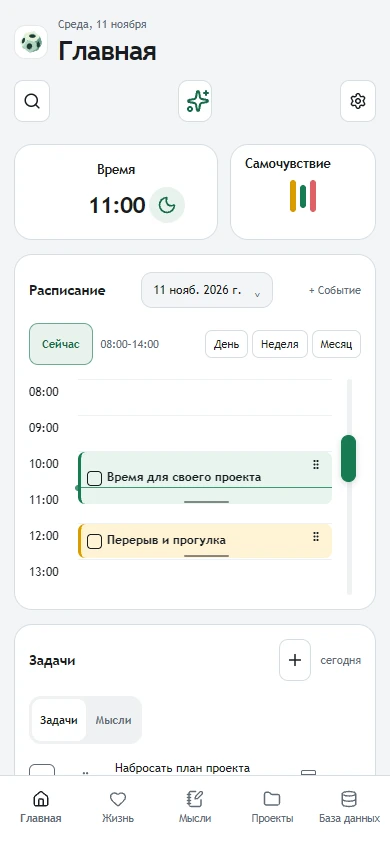
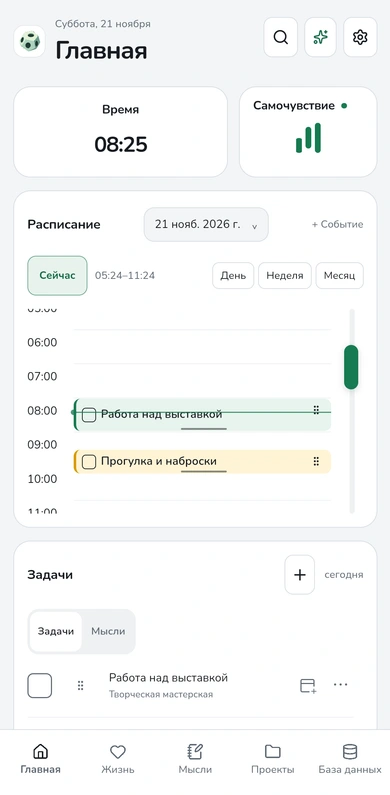
site: use native Orvim 0.4.49 screenshots in the gallery

diff --git a/site/app.js b/site/app.js
@@ -138,6 +138,7 @@ const translations = {
     footer_privacy: "Site Privacy",
     dialog_aria: "Enlarged interface screenshot",
     dialog_close_aria: "Close screenshot",
+    dialog_zoom: "Zoom 2×",
     dialog_close: 'Close <span aria-hidden="true">×</span>',
 
     // help.html
@@ -406,16 +407,24 @@ if (tour) {
     const [name, heading, body, alt] = slide[currentLang];
     const mobile = device === "mobile";
     const suffix = currentLang === "en" ? "-en" : "";
-    const src = `assets/tour/${slide.id}-${device}${suffix}.webp`;
+    const asset = `assets/tour/${slide.id}-${device}${suffix}`;
+    const src = `${asset}.webp`;
+    const full = `${asset}-full.webp`;
     title.textContent = heading;
     description.textContent = body;
     status.textContent = `${name} · ${index + 1} / ${TOUR_SLIDES.length}`;
     image.alt = alt;
     image.width = mobile ? 390 : 1280;
-    image.height = mobile ? 844 : 840;
+    image.height = mobile ? 795 : 840;
     stage.dataset.device = device;
-    if (image.getAttribute("src") !== src) image.src = src;
-    enlarge.href = src;
+    if (image.getAttribute("src") !== src || !image.srcset) {
+      image.sizes = mobile
+        ? "auto, min(390px, calc(100vw - 52px))"
+        : "auto, (max-width: 740px) calc(100vw - 74px), min(1146px, calc(100vw - 150px))";
+      image.srcset = `${src} ${image.width}w, ${full} ${mobile ? 1080 : 2560}w`;
+      image.src = src;
+    }
+    enlarge.href = full;
     devices.querySelector(`input[value="${device}"]`).checked = true;
   };
 
@@ -492,6 +501,13 @@ applyLanguage(detectInitialLanguage());
 const dialog = document.getElementById("image-dialog");
 if (dialog && typeof dialog.showModal === "function") {
   let trigger;
+  const zoom = document.getElementById("dialog-zoom");
+  const frame = dialog.querySelector(".dialog-image-frame");
+  zoom.addEventListener("click", () => {
+    const on = dialog.toggleAttribute("data-zoomed");
+    zoom.setAttribute("aria-pressed", String(on));
+    if (!on) frame.scrollTo(0, 0);
+  });
   for (const link of document.querySelectorAll(".enlarge")) {
     link.addEventListener("click", (event) => {
       event.preventDefault();
@@ -518,7 +534,12 @@ if (dialog && typeof dialog.showModal === "function") {
     )
       dialog.close();
   });
-  dialog.addEventListener("close", () => trigger?.focus());
+  dialog.addEventListener("close", () => {
+    dialog.removeAttribute("data-zoomed");
+    zoom.setAttribute("aria-pressed", "false");
+    frame.scrollTo(0, 0);
+    trigger?.focus();
+  });
 }
 
 // Only explicit, verified public release links are enabled. No requests to a third-party API.

diff --git a/site/index.html b/site/index.html
@@ -27,8 +27,8 @@
     />
     <meta name="twitter:card" content="summary_large_image" />
     <link rel="icon" href="assets/orvim.png" type="image/png" />
-    <link rel="stylesheet" href="styles.css?v=tour" />
-    <script src="app.js?v=tour" defer></script>
+    <link rel="stylesheet" href="styles.css?v=native-tour" />
+    <script src="app.js?v=native-tour" defer></script>
   </head>
   <body>
     <a class="skip-link" href="#main" data-i18n="skip_link">К содержимому</a>
@@ -149,7 +149,7 @@
               <a
                 class="text-link enlarge"
                 id="tour-enlarge"
-                href="assets/tour/home-desktop.webp"
+                href="assets/tour/home-desktop-full.webp"
                 data-i18n-html="inspect_interface"
                 >Рассмотреть интерфейс <span aria-hidden="true">↗</span></a
               >
@@ -180,6 +180,11 @@
             <img
               id="tour-image"
               src="assets/tour/home-desktop.webp"
+              srcset="
+                assets/tour/home-desktop.webp      1280w,
+                assets/tour/home-desktop-full.webp 2560w
+              "
+              sizes="auto, (max-width: 740px) calc(100vw - 74px), min(1146px, calc(100vw - 150px))"
               width="1280"
               height="840"
               alt="Расписание и задачи на главной Orvim"
@@ -359,8 +364,20 @@
         data-i18n-aria="dialog_close_aria"
         data-i18n-html="dialog_close"
       >
-        Закрыть <span aria-hidden="true">×</span></button
-      ><img id="dialog-image" alt="" />
+        Закрыть <span aria-hidden="true">×</span>
+      </button>
+      <button
+        id="dialog-zoom"
+        type="button"
+        aria-pressed="false"
+        aria-controls="dialog-image"
+        data-i18n="dialog_zoom"
+      >
+        Увеличить ×2
+      </button>
+      <div class="dialog-image-frame">
+        <img id="dialog-image" alt="" />
+      </div>
     </dialog>
   </body>
 </html>

diff --git a/site/styles.css b/site/styles.css
@@ -811,12 +811,26 @@ dialog::backdrop {
   background: #17130fe8;
 }
 
-dialog > img {
+.dialog-image-frame {
+  overflow: auto;
+  max-height: calc(94vh - 68px);
+  touch-action: pinch-zoom pan-x pan-y;
+}
+
+.dialog-image-frame > img {
+  max-width: 100%;
   margin-inline: auto;
   border-radius: var(--radius-image);
 }
 
-.dialog-close {
+#image-dialog[data-zoomed] .dialog-image-frame > img {
+  width: 200%;
+  max-width: none;
+  margin-inline: 0;
+}
+
+.dialog-close,
+#dialog-zoom {
   position: absolute;
   right: 14px;
   top: 9px;
@@ -824,6 +838,16 @@ dialog > img {
   background: #fffaf0;
   border: 1px solid var(--line);
   border-radius: 999px;
+}
+
+#dialog-zoom {
+  right: auto;
+  left: 14px;
+}
+
+#dialog-zoom[aria-pressed="true"] {
+  border-color: var(--bronze);
+  color: var(--bronze);
 }
 
 .dialog-close span {
@@ -874,6 +898,16 @@ dialog > img {
 }
 
 @media (max-width: 740px) {
+  .tour-stage[data-device="mobile"] {
+    width: min(390px, calc(100% + 22px));
+    margin-inline: max(-11px, calc((100% - 390px) / 2));
+  }
+
+  #image-dialog {
+    width: calc(100% - 8px);
+    padding-inline: 3px;
+  }
+
   .wrap {
     width: calc(100% - 40px);
   }

diff --git a/README.md b/README.md
@@ -42,35 +42,35 @@
 Ваш день в одном окне. Расписание и задачи рядом.
 
 <picture>
-  <source media="(max-width: 740px)" srcset="site/assets/tour/home-mobile.webp" />
-  <img src="site/assets/tour/home-desktop.webp" alt="Расписание и задачи на главной Orvim" width="1280" />
+  <source media="(max-width: 740px)" srcset="site/assets/tour/home-mobile-full.webp" />
+  <img src="site/assets/tour/home-desktop-full.webp" alt="Расписание и задачи на главной Orvim" width="1280" />
 </picture>
 
 <details>
 <summary><strong>Мобильная версия</strong></summary>
 
-- [Главная](site/assets/tour/home-mobile.webp) — Расписание и задачи рядом. Выберите день и отмечайте выполненные дела.
-- [Жизнь](site/assets/tour/life-mobile.webp) — Отмечайте самочувствие, сон, питание и тренировки. Смотрите, как меняются ваши записи со временем.
-- [Мысли](site/assets/tour/thoughts-mobile.webp) — Запишите мысль отдельно от списка дел. Возвращайтесь к заметкам, когда захотите развить идею.
-- [Проекты](site/assets/tour/projects-mobile.webp) — Описание, материалы и задачи собраны в одном месте. На доске видно, что запланировано, в работе или готово.
-- [База данных](site/assets/tour/database-mobile.webp) — Собирайте книги, фильмы и другие записи в коллекции. Добавляйте статусы, оценки и заметки.
+- [Главная](site/assets/tour/home-mobile-full.webp) — Расписание и задачи рядом. Выберите день и отмечайте выполненные дела.
+- [Жизнь](site/assets/tour/life-mobile-full.webp) — Отмечайте самочувствие, сон, питание и тренировки. Смотрите, как меняются ваши записи со временем.
+- [Мысли](site/assets/tour/thoughts-mobile-full.webp) — Запишите мысль отдельно от списка дел. Возвращайтесь к заметкам, когда захотите развить идею.
+- [Проекты](site/assets/tour/projects-mobile-full.webp) — Описание, материалы и задачи собраны в одном месте. На доске видно, что запланировано, в работе или готово.
+- [База данных](site/assets/tour/database-mobile-full.webp) — Собирайте книги, фильмы и другие записи в коллекции. Добавляйте статусы, оценки и заметки.
 
 </details>
 
 <details>
 <summary><strong>ПК-версия</strong></summary>
 
-- [Главная](site/assets/tour/home-desktop.webp) — Расписание и задачи рядом. Выберите день и отмечайте выполненные дела.
-- [Жизнь](site/assets/tour/life-desktop.webp) — Отмечайте самочувствие, сон, питание и тренировки. Смотрите, как меняются ваши записи со временем.
-- [Мысли](site/assets/tour/thoughts-desktop.webp) — Запишите мысль отдельно от списка дел. Возвращайтесь к заметкам, когда захотите развить идею.
-- [Проекты](site/assets/tour/projects-desktop.webp) — Описание, материалы и задачи собраны в одном месте. На доске видно, что запланировано, в работе или готово.
-- [База данных](site/assets/tour/database-desktop.webp) — Собирайте книги, фильмы и другие записи в коллекции. Добавляйте статусы, оценки и заметки.
+- [Главная](site/assets/tour/home-desktop-full.webp) — Расписание и задачи рядом. Выберите день и отмечайте выполненные дела.
+- [Жизнь](site/assets/tour/life-desktop-full.webp) — Отмечайте самочувствие, сон, питание и тренировки. Смотрите, как меняются ваши записи со временем.
+- [Мысли](site/assets/tour/thoughts-desktop-full.webp) — Запишите мысль отдельно от списка дел. Возвращайтесь к заметкам, когда захотите развить идею.
+- [Проекты](site/assets/tour/projects-desktop-full.webp) — Описание, материалы и задачи собраны в одном месте. На доске видно, что запланировано, в работе или готово.
+- [База данных](site/assets/tour/database-desktop-full.webp) — Собирайте книги, фильмы и другие записи в коллекции. Добавляйте статусы, оценки и заметки.
 
 </details>
 
 [Листать экраны на сайте Orvim](https://adeptus-amohus.github.io/orvim/?lang=ru#tour)
 
-<sub>Orvim 0.4.48 в браузерном предпросмотре с демонстрационными записями.</sub>
+<sub>Снимки Orvim 0.4.49 на Windows и в Android-эмуляторе с демонстрационными записями.</sub>
 
 ## Возможности
 
@@ -255,35 +255,35 @@ third-party/                 сторонние лицензии и уведом
 Your day at a glance. See your schedule and tasks together.
 
 <picture>
-  <source media="(max-width: 740px)" srcset="site/assets/tour/home-mobile-en.webp" />
-  <img src="site/assets/tour/home-desktop-en.webp" alt="Schedule and tasks on Orvim Home" width="1280" />
+  <source media="(max-width: 740px)" srcset="site/assets/tour/home-mobile-en-full.webp" />
+  <img src="site/assets/tour/home-desktop-en-full.webp" alt="Schedule and tasks on Orvim Home" width="1280" />
 </picture>
 
 <details>
 <summary><strong>Mobile version</strong></summary>
 
-- [Home](site/assets/tour/home-mobile-en.webp) — See your schedule and tasks together. Pick a date and check off tasks as you go.
-- [Life](site/assets/tour/life-mobile-en.webp) — Log how you feel, your sleep, meals, and workouts. Look back at your records over time.
-- [Thoughts](site/assets/tour/thoughts-mobile-en.webp) — Capture a thought outside your task list. Come back to your notes when you want to develop an idea.
-- [Projects](site/assets/tour/projects-mobile-en.webp) — Keep the brief, reference materials, and tasks together. The board shows what’s planned, in progress, and done.
-- [Database](site/assets/tour/database-mobile-en.webp) — Organize books, films, and other records into collections. Add statuses, ratings, and notes.
+- [Home](site/assets/tour/home-mobile-en-full.webp) — See your schedule and tasks together. Pick a date and check off tasks as you go.
+- [Life](site/assets/tour/life-mobile-en-full.webp) — Log how you feel, your sleep, meals, and workouts. Look back at your records over time.
+- [Thoughts](site/assets/tour/thoughts-mobile-en-full.webp) — Capture a thought outside your task list. Come back to your notes when you want to develop an idea.
+- [Projects](site/assets/tour/projects-mobile-en-full.webp) — Keep the brief, reference materials, and tasks together. The board shows what’s planned, in progress, and done.
+- [Database](site/assets/tour/database-mobile-en-full.webp) — Organize books, films, and other records into collections. Add statuses, ratings, and notes.
 
 </details>
 
 <details>
 <summary><strong>Desktop version</strong></summary>
 
-- [Home](site/assets/tour/home-desktop-en.webp) — See your schedule and tasks together. Pick a date and check off tasks as you go.
-- [Life](site/assets/tour/life-desktop-en.webp) — Log how you feel, your sleep, meals, and workouts. Look back at your records over time.
-- [Thoughts](site/assets/tour/thoughts-desktop-en.webp) — Capture a thought outside your task list. Come back to your notes when you want to develop an idea.
-- [Projects](site/assets/tour/projects-desktop-en.webp) — Keep the brief, reference materials, and tasks together. The board shows what’s planned, in progress, and done.
-- [Database](site/assets/tour/database-desktop-en.webp) — Organize books, films, and other records into collections. Add statuses, ratings, and notes.
+- [Home](site/assets/tour/home-desktop-en-full.webp) — See your schedule and tasks together. Pick a date and check off tasks as you go.
+- [Life](site/assets/tour/life-desktop-en-full.webp) — Log how you feel, your sleep, meals, and workouts. Look back at your records over time.
+- [Thoughts](site/assets/tour/thoughts-desktop-en-full.webp) — Capture a thought outside your task list. Come back to your notes when you want to develop an idea.
+- [Projects](site/assets/tour/projects-desktop-en-full.webp) — Keep the brief, reference materials, and tasks together. The board shows what’s planned, in progress, and done.
+- [Database](site/assets/tour/database-desktop-en-full.webp) — Organize books, films, and other records into collections. Add statuses, ratings, and notes.
 
 </details>
 
 [Open the interactive gallery on the Orvim website](https://adeptus-amohus.github.io/orvim/?lang=en#tour)
 
-<sub>Orvim 0.4.48 browser preview with sample records.</sub>
+<sub>Orvim 0.4.49 on Windows and an Android emulator with sample records.</sub>
 
 ## Features
 

diff --git a/README.ru.md b/README.ru.md
@@ -39,35 +39,35 @@
 Ваш день в одном окне. Расписание и задачи рядом.
 
 <picture>
-  <source media="(max-width: 740px)" srcset="site/assets/tour/home-mobile.webp" />
-  <img src="site/assets/tour/home-desktop.webp" alt="Расписание и задачи на главной Orvim" width="1280" />
+  <source media="(max-width: 740px)" srcset="site/assets/tour/home-mobile-full.webp" />
+  <img src="site/assets/tour/home-desktop-full.webp" alt="Расписание и задачи на главной Orvim" width="1280" />
 </picture>
 
 <details>
 <summary><strong>Мобильная версия</strong></summary>
 
-- [Главная](site/assets/tour/home-mobile.webp) — Расписание и задачи рядом. Выберите день и отмечайте выполненные дела.
-- [Жизнь](site/assets/tour/life-mobile.webp) — Отмечайте самочувствие, сон, питание и тренировки. Смотрите, как меняются ваши записи со временем.
-- [Мысли](site/assets/tour/thoughts-mobile.webp) — Запишите мысль отдельно от списка дел. Возвращайтесь к заметкам, когда захотите развить идею.
-- [Проекты](site/assets/tour/projects-mobile.webp) — Описание, материалы и задачи собраны в одном месте. На доске видно, что запланировано, в работе или готово.
-- [База данных](site/assets/tour/database-mobile.webp) — Собирайте книги, фильмы и другие записи в коллекции. Добавляйте статусы, оценки и заметки.
+- [Главная](site/assets/tour/home-mobile-full.webp) — Расписание и задачи рядом. Выберите день и отмечайте выполненные дела.
+- [Жизнь](site/assets/tour/life-mobile-full.webp) — Отмечайте самочувствие, сон, питание и тренировки. Смотрите, как меняются ваши записи со временем.
+- [Мысли](site/assets/tour/thoughts-mobile-full.webp) — Запишите мысль отдельно от списка дел. Возвращайтесь к заметкам, когда захотите развить идею.
+- [Проекты](site/assets/tour/projects-mobile-full.webp) — Описание, материалы и задачи собраны в одном месте. На доске видно, что запланировано, в работе или готово.
+- [База данных](site/assets/tour/database-mobile-full.webp) — Собирайте книги, фильмы и другие записи в коллекции. Добавляйте статусы, оценки и заметки.
 
 </details>
 
 <details>
 <summary><strong>ПК-версия</strong></summary>
 
-- [Главная](site/assets/tour/home-desktop.webp) — Расписание и задачи рядом. Выберите день и отмечайте выполненные дела.
-- [Жизнь](site/assets/tour/life-desktop.webp) — Отмечайте самочувствие, сон, питание и тренировки. Смотрите, как меняются ваши записи со временем.
-- [Мысли](site/assets/tour/thoughts-desktop.webp) — Запишите мысль отдельно от списка дел. Возвращайтесь к заметкам, когда захотите развить идею.
-- [Проекты](site/assets/tour/projects-desktop.webp) — Описание, материалы и задачи собраны в одном месте. На доске видно, что запланировано, в работе или готово.
-- [База данных](site/assets/tour/database-desktop.webp) — Собирайте книги, фильмы и другие записи в коллекции. Добавляйте статусы, оценки и заметки.
+- [Главная](site/assets/tour/home-desktop-full.webp) — Расписание и задачи рядом. Выберите день и отмечайте выполненные дела.
+- [Жизнь](site/assets/tour/life-desktop-full.webp) — Отмечайте самочувствие, сон, питание и тренировки. Смотрите, как меняются ваши записи со временем.
+- [Мысли](site/assets/tour/thoughts-desktop-full.webp) — Запишите мысль отдельно от списка дел. Возвращайтесь к заметкам, когда захотите развить идею.
+- [Проекты](site/assets/tour/projects-desktop-full.webp) — Описание, материалы и задачи собраны в одном месте. На доске видно, что запланировано, в работе или готово.
+- [База данных](site/assets/tour/database-desktop-full.webp) — Собирайте книги, фильмы и другие записи в коллекции. Добавляйте статусы, оценки и заметки.
 
 </details>
 
 [Листать экраны на сайте Orvim](https://adeptus-amohus.github.io/orvim/?lang=ru#tour)
 
-<sub>Orvim 0.4.48 в браузерном предпросмотре с демонстрационными записями.</sub>
+<sub>Снимки Orvim 0.4.49 на Windows и в Android-эмуляторе с демонстрационными записями.</sub>
 
 ## Возможности
 
